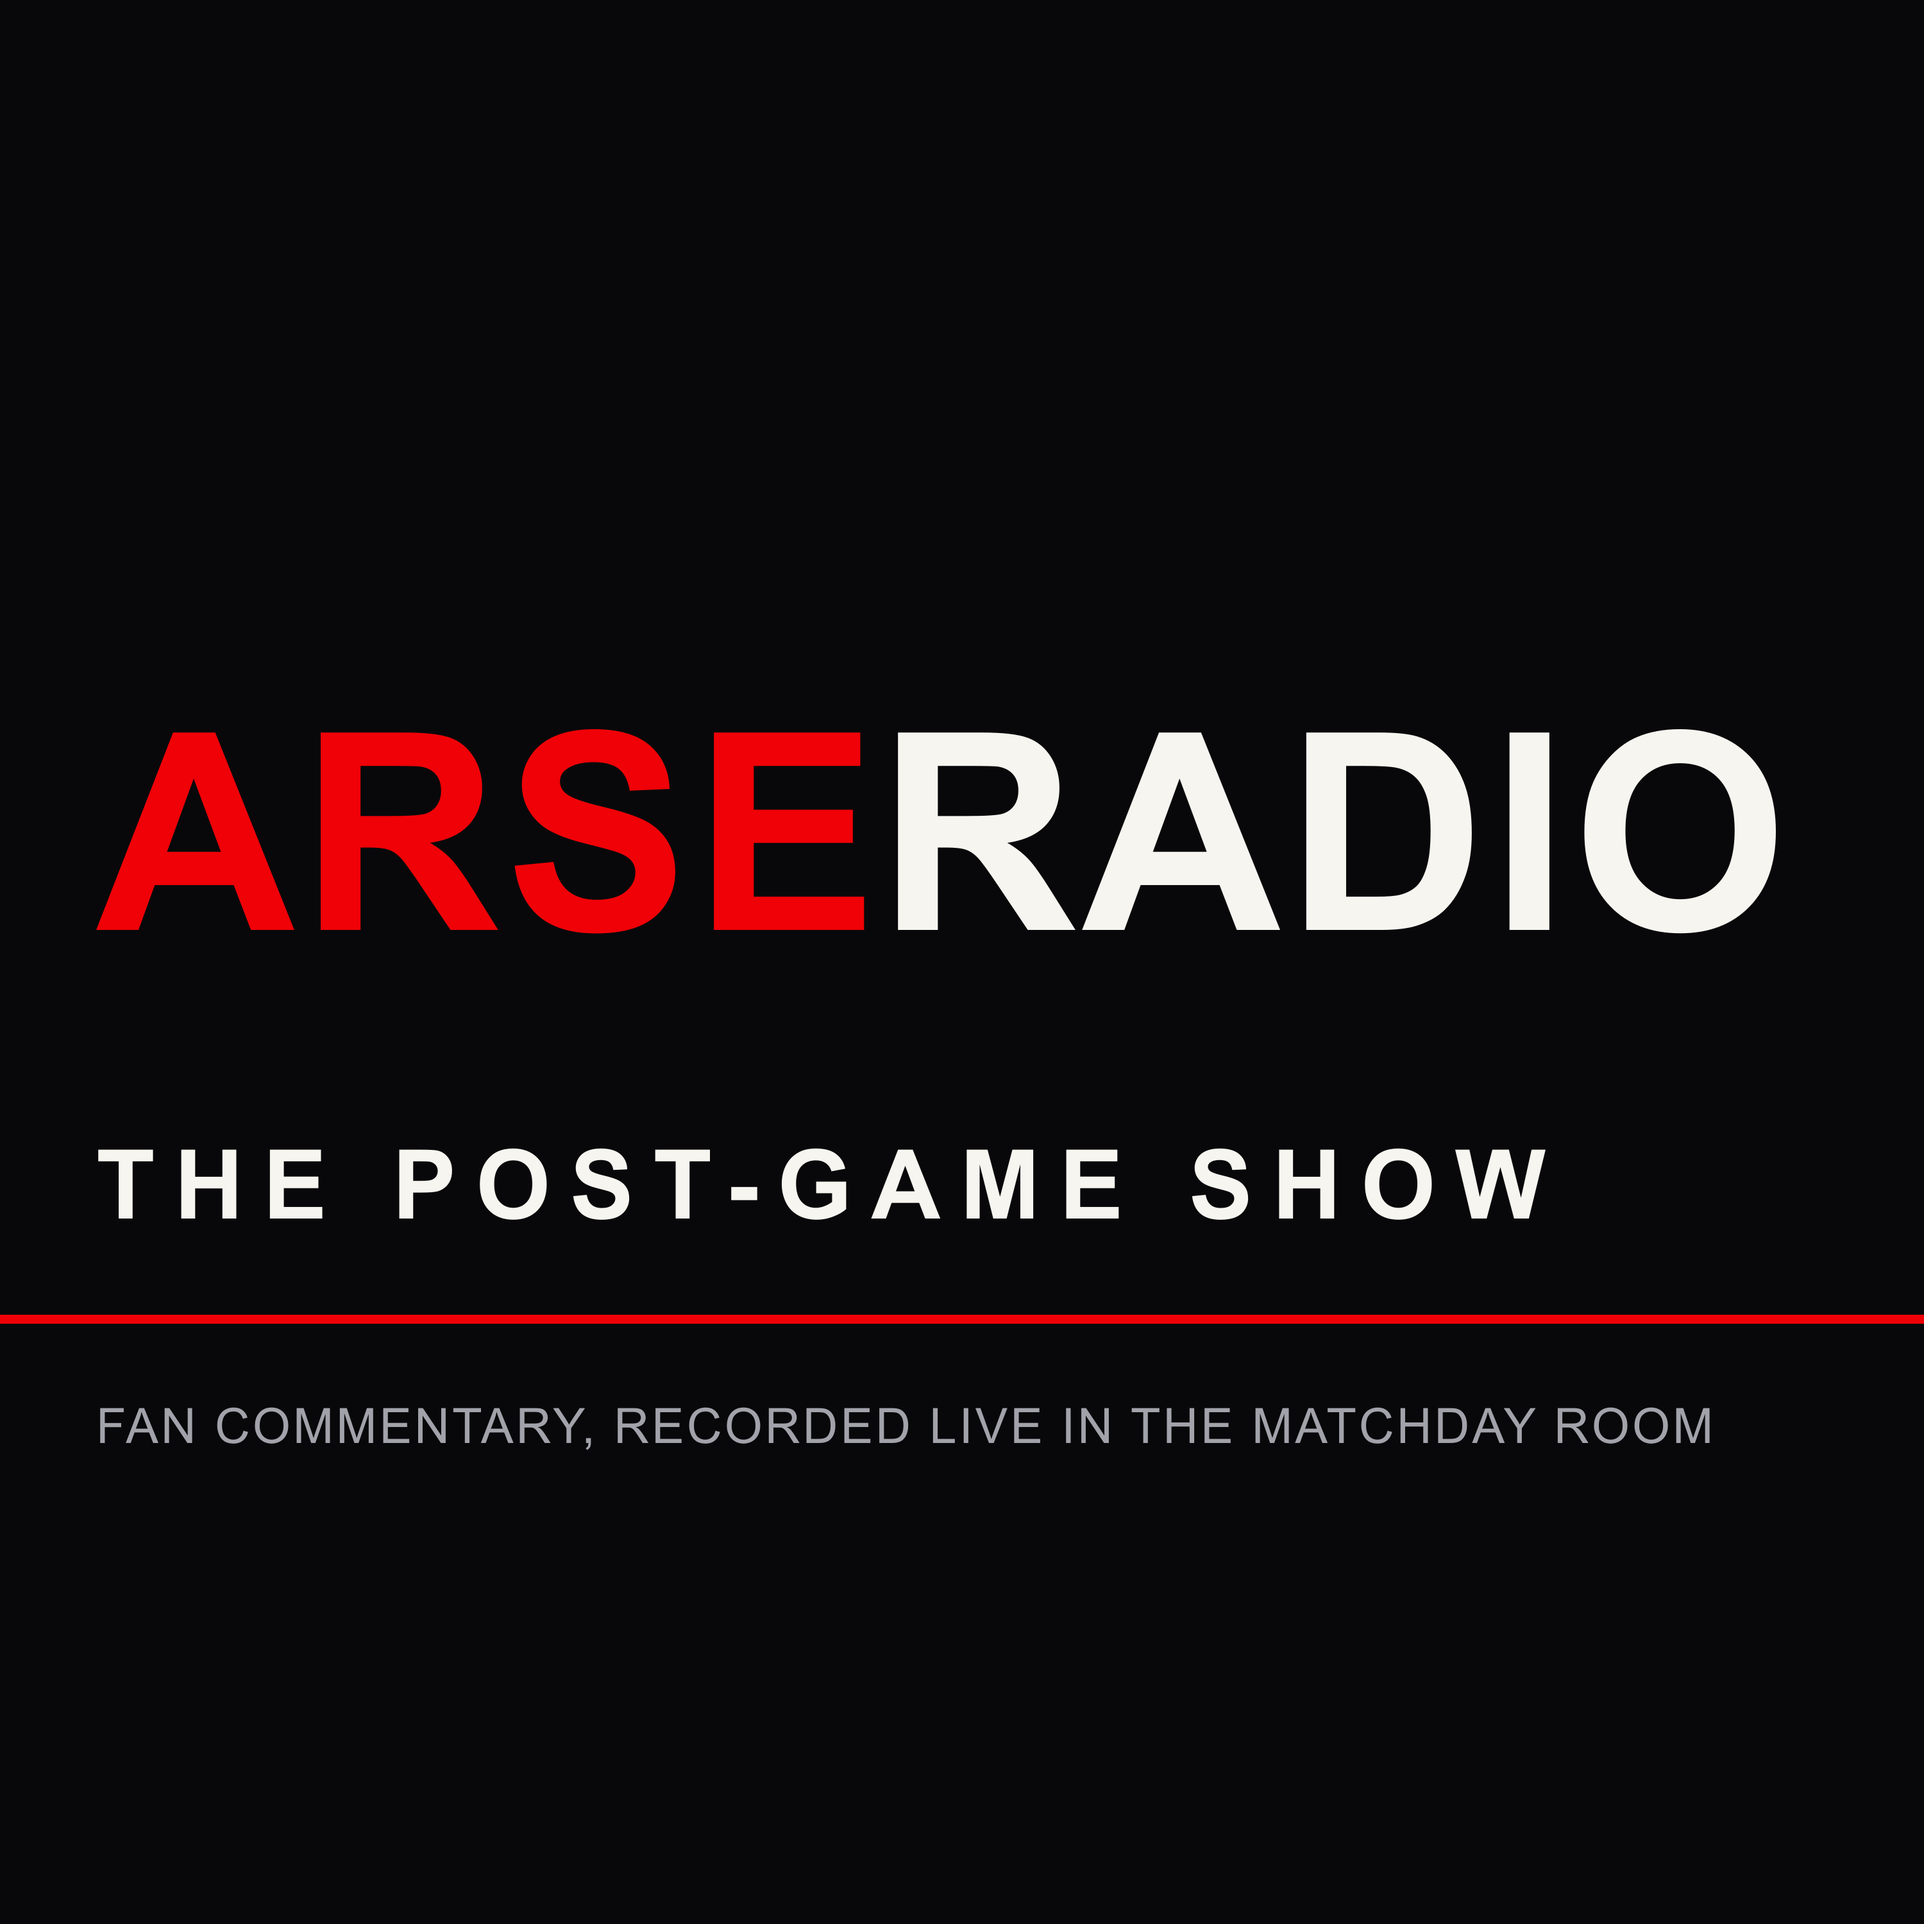
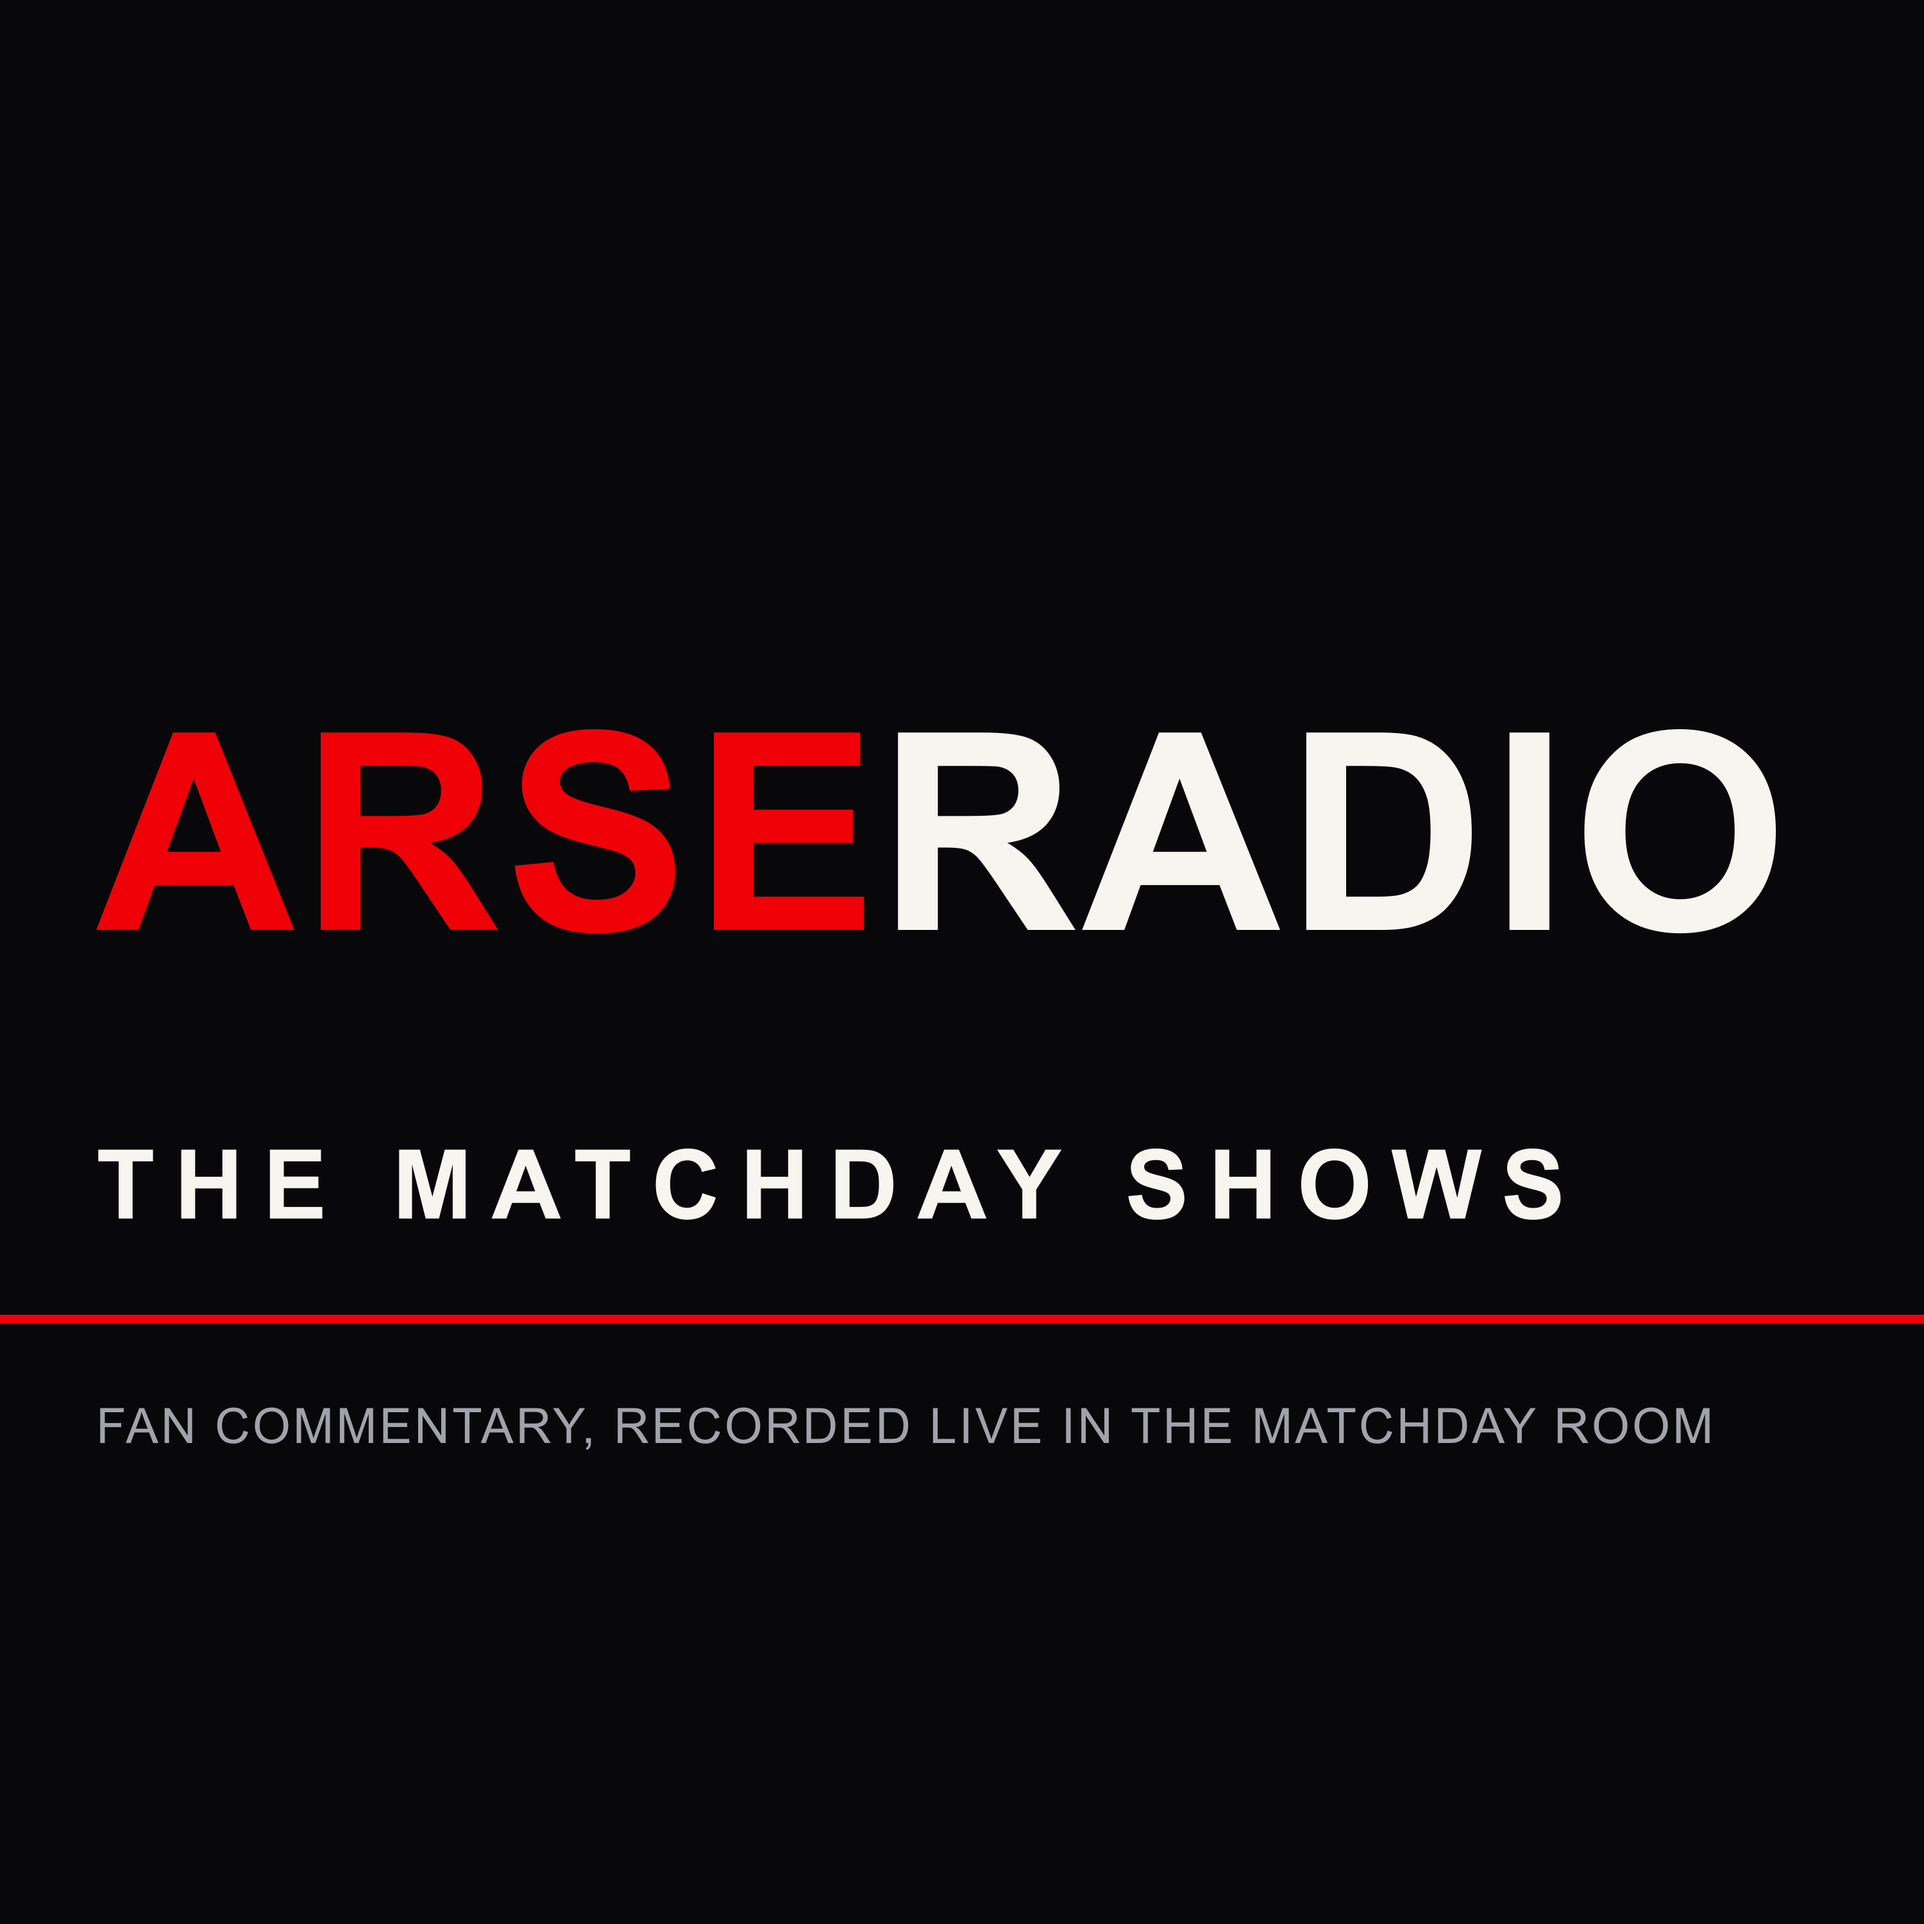
Cover art and decision log catch up with the three-show podcast

Changed region(s): [[0.217, 0.589, 0.806, 0.651]]

diff --git a/CLAUDE.md b/CLAUDE.md
@@ -111,7 +111,7 @@ Next.js (App Router) + TypeScript strict + Tailwind on Vercel. Supabase (Postgre
 
 | **Recording processing survives the 300s wall + self-heals** (2026-09-01, the Villa post-mortem). The 3h22m Villa show (12,183 segments) took ~4.5h of SILENT retries before one attempt fit inside Vercel Hobby's 300s function limit: a killed function writes nothing, so the row sat at \"processing\" with no error while the panel said \"a few minutes\" forever. Three-part fix. (1) **The segment path streams downloads INTO the encoder** (ffmpeg `-f mpegts -i pipe:0`, drain backpressure, deadlock-proof feed that also resolves on close/error, kill-on-throw guard): download and encode now overlap, wall time is max(download, encode) instead of the sum, and /tmp never holds the 300MB source; batch 24 -> 48. A full.mp3 over `STORAGE_CAP_BYTES` (49MB) skips its doomed upload outright (a 3h+ show ships parts-only BY DESIGN); the zip carries full.mp3 only when it was stored. (2) **Self-healing retries**: migration **0047** adds `recordings.attempts` (claim increments it - the wall kills without a trace, this is the trace); the panel's 4s poll of GET /api/recordings re-triggers a stale run (>10min, also status \"recording\" whose ended_at is stale = the end-action trigger never ran) up to `MAX_AUTO_ATTEMPTS` 8, then writes an honest \"failed\"; POST process (the human Retry) resets the counter; `sweepStuckProcessing` in the daily cron is the backstop for rows nobody has open. (3) **Honest panel**: no dead un-downloadable \"Full broadcast\" row when full_mp3_path is null (that dead row is what read as \"recordings aren't available\"), \"N part files\" wording + fullNote explaining parts-only, \"retries by itself (attempt N)\" copy while stalled. `RECORDING_ENCODE_TIMEOUT_MS` env overrides the 280s encode timeout for local rescues. | 2026-09-01 | Assumed |
 
-| **Extra time retired + episode notes + podcast feed** (founder 2026-09-01). (1) **ET is gone from matchday rooms**: the five segments are exactly Pre-game / First half / Halftime / Second half / Post-game. `start_et` removed from the clock API + ClockControls (End ET stays only as the exit for a legacy `extra_time` state); `ET_KINDS` in lib/markers.ts is filtered out of `deriveSegments` and out of the adjust list/neighbours, so legacy start_et/stop_et rows (the Villa show has an accidental pair) simply stop cutting: everything after Full time is the Post-game show. A cup game that runs long is just a longer Second half. (2) **Episode notes** (lib/episodeNotes.ts): podcast-style title + description for the pre/post-game shows, generated from fixture + final score + accepted hosts, shown on the recordings page with per-field Copy and a .txt download. Copy-compliance safe, no em dashes. (3) **Podcast feed**: Spotify has NO upload API - podcasts reach it via RSS it polls, so the app IS the podcast host: public `podcast` storage bucket (outside the 60-day recordings retention, episodes are permanent) + `podcast_episodes` (migration **0048**, one episode per room, republish keeps guid+published_at) + public **/podcast.xml** (RSS 2.0 + itunes tags, config in lib/podcast.ts, env-overridable PODCAST_TITLE/OWNER_EMAIL/EXPLICIT defaults explicit=true) + `POST /api/podcast/publish` (host/admin; copies the longest Post-game cut >= 60s to the bucket; the 60s floor catches legacy pre-recut slivers) + a Publish button in the Downloads panel (ADMIN-ONLY: the feed is one platform-branded channel and commentators are self-serve, so hosts cannot place audio on it; per-host feeds are the future fix) + DELETE unpublish (admin, removes audio + row). Cover art public/podcast-cover.png (3000x3000, generated with sharp, brand two-tone, no club imagery). One-time founder step per directory: add the feed URL in Spotify for Creators and receive the claim email at PODCAST_OWNER_EMAIL. | Founder decision 2026-09-01 | Final |
+| **Extra time retired + episode notes + podcast feed** (founder 2026-09-01). (1) **ET is gone from matchday rooms**: the five segments are exactly Pre-game / First half / Halftime / Second half / Post-game. `start_et` removed from the clock API + ClockControls (End ET stays only as the exit for a legacy `extra_time` state); `ET_KINDS` in lib/markers.ts is filtered out of `deriveSegments` and out of the adjust list/neighbours, so legacy start_et/stop_et rows (the Villa show has an accidental pair) simply stop cutting: everything after Full time is the Post-game show. A cup game that runs long is just a longer Second half. (2) **Episode notes** (lib/episodeNotes.ts): podcast-style title + description for the pre/post-game shows, generated from fixture + final score + accepted hosts, shown on the recordings page with per-field Copy and a .txt download. Copy-compliance safe, no em dashes. (3) **Podcast feed**: Spotify has NO upload API - podcasts reach it via RSS it polls, so the app IS the podcast host: public `podcast` storage bucket (outside the 60-day recordings retention, episodes are permanent) + `podcast_episodes` (migration **0048**, one episode per room, republish keeps guid+published_at) + public **/podcast.xml** (RSS 2.0 + itunes tags, config in lib/podcast.ts, env-overridable PODCAST_TITLE/OWNER_EMAIL/EXPLICIT defaults explicit=true) + `POST /api/podcast/publish` (host/admin; copies the longest Post-game cut >= 60s to the bucket; the 60s floor catches legacy pre-recut slivers) + per-show Publish buttons in the Downloads panel: pre-game / full-match blend / post-game each publish as their own episode (migration **0049**, one row per room+kind; `published_at` doubles as the SCHEDULE: the feed serves only rows whose time has passed, so a future date = scheduled release, no cron; optional datetime picker per row, 60-day cap, Remove per row; channel identity = brand name now that it carries all three) (ADMIN-ONLY: the feed is one platform-branded channel and commentators are self-serve, so hosts cannot place audio on it; per-host feeds are the future fix) + DELETE unpublish (admin, removes audio + row). Cover art public/podcast-cover.png (3000x3000, generated with sharp, brand two-tone, no club imagery). One-time founder step per directory: add the feed URL in Spotify for Creators and receive the claim email at PODCAST_OWNER_EMAIL. | Founder decision 2026-09-01 | Final |
 
 | **Line-up discs wear club colours** (founder 2026-09-06): Arsenal are ALWAYS the red circles, home or away (the old side-based home=navy/away=red made Arsenal blue at home); the opponent wears their own club colour from `lib/teamColors.ts` (all EPL clubs + likely cup sides, keyed by Sportmonks team-name substring, plain discs only - no crests/kits), and a same-colour-family opponent (Liverpool, United, Forest, Bournemouth, Brentford, Sunderland vs the red) drops to their SECONDARY colour. Arsenal never switch. With no Arsenal in the fixture the away side switches on a family clash; unknown teams fall back to navy. Unit test `npm run test:colors` includes a full-league pairwise no-collision sweep. Scope: PitchLineup discs only (team-name underlines etc. stay the room design language red/navy). | Founder decision 2026-09-06 | Final |
 
